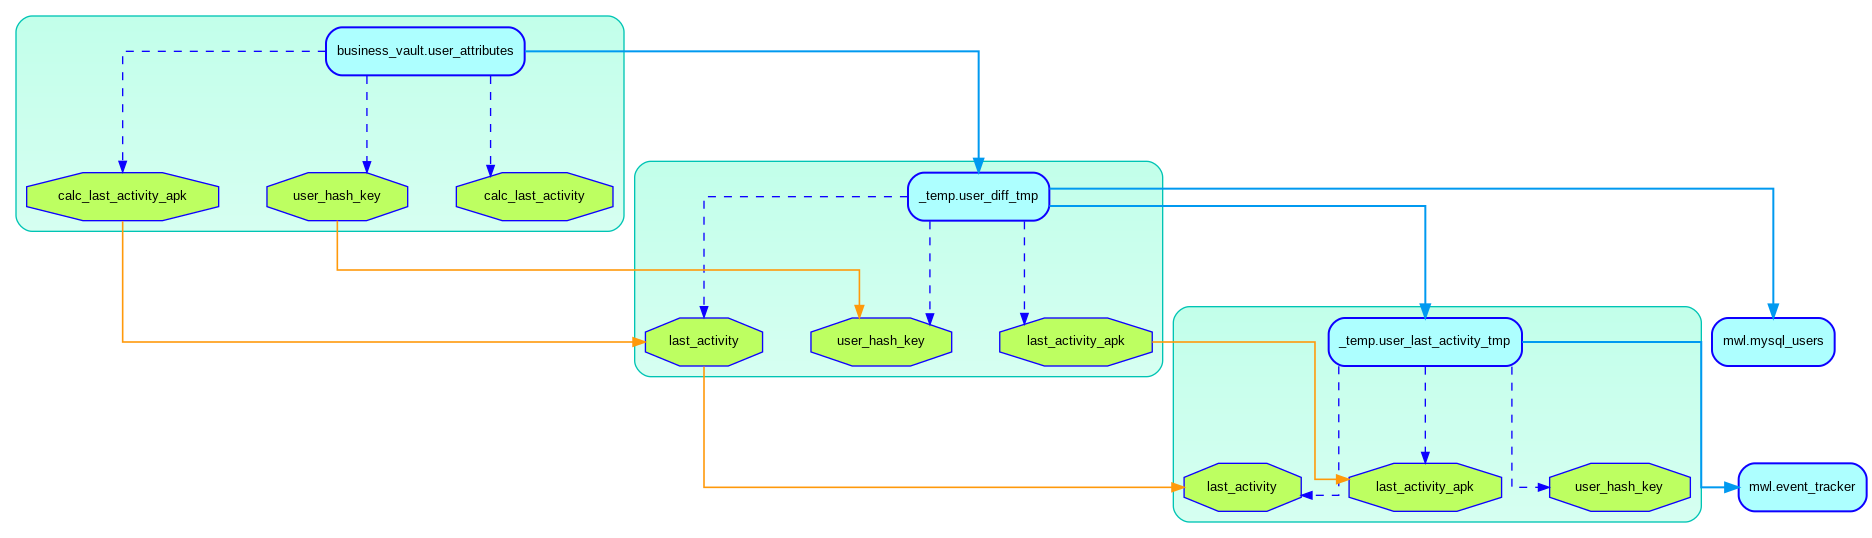
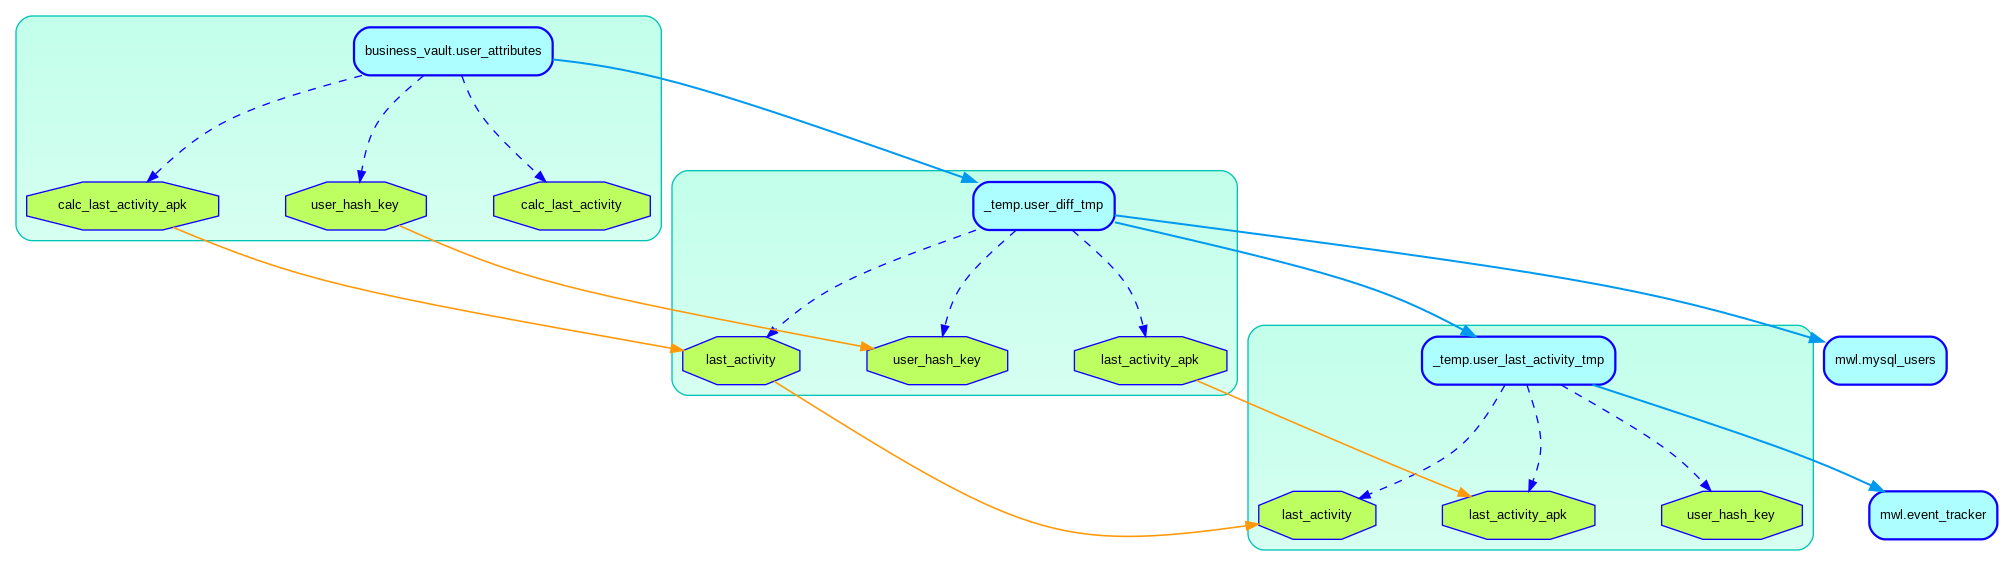
A little bit of change of Graphviz settings

diff --git a/draw_graphviz.py b/draw_graphviz.py
@@ -43,11 +43,13 @@ dot = Digraph(
     engine='dot',
     graph_attr={
         'rankdir': RANKDIR,
-        'splines': 'ortho',
+        'splines': 'curved',
         'overlap': 'false',
         'fontsize': FONT_SIZE,
-        'nodesep': '0.5',
-        'ranksep': '1.0',
+        'nodesep': '0.7',
+        'ranksep': '1.1',
+        'maxiter': '1000',
+        'remincross': 'true'
     },
     node_attr={
         'fontname': 'Arial',
@@ -73,7 +75,7 @@ for node in G.nodes():
             style='filled',
             fillcolor=TABLE_NODE_COLOR,
             color=TABLE_BORDER_COLOR,
-            penwidth='1.5'
+            penwidth='1.7'
         )
     elif attrs['type'] == 'col':
         label = f"{attrs.get('column', '')}"
